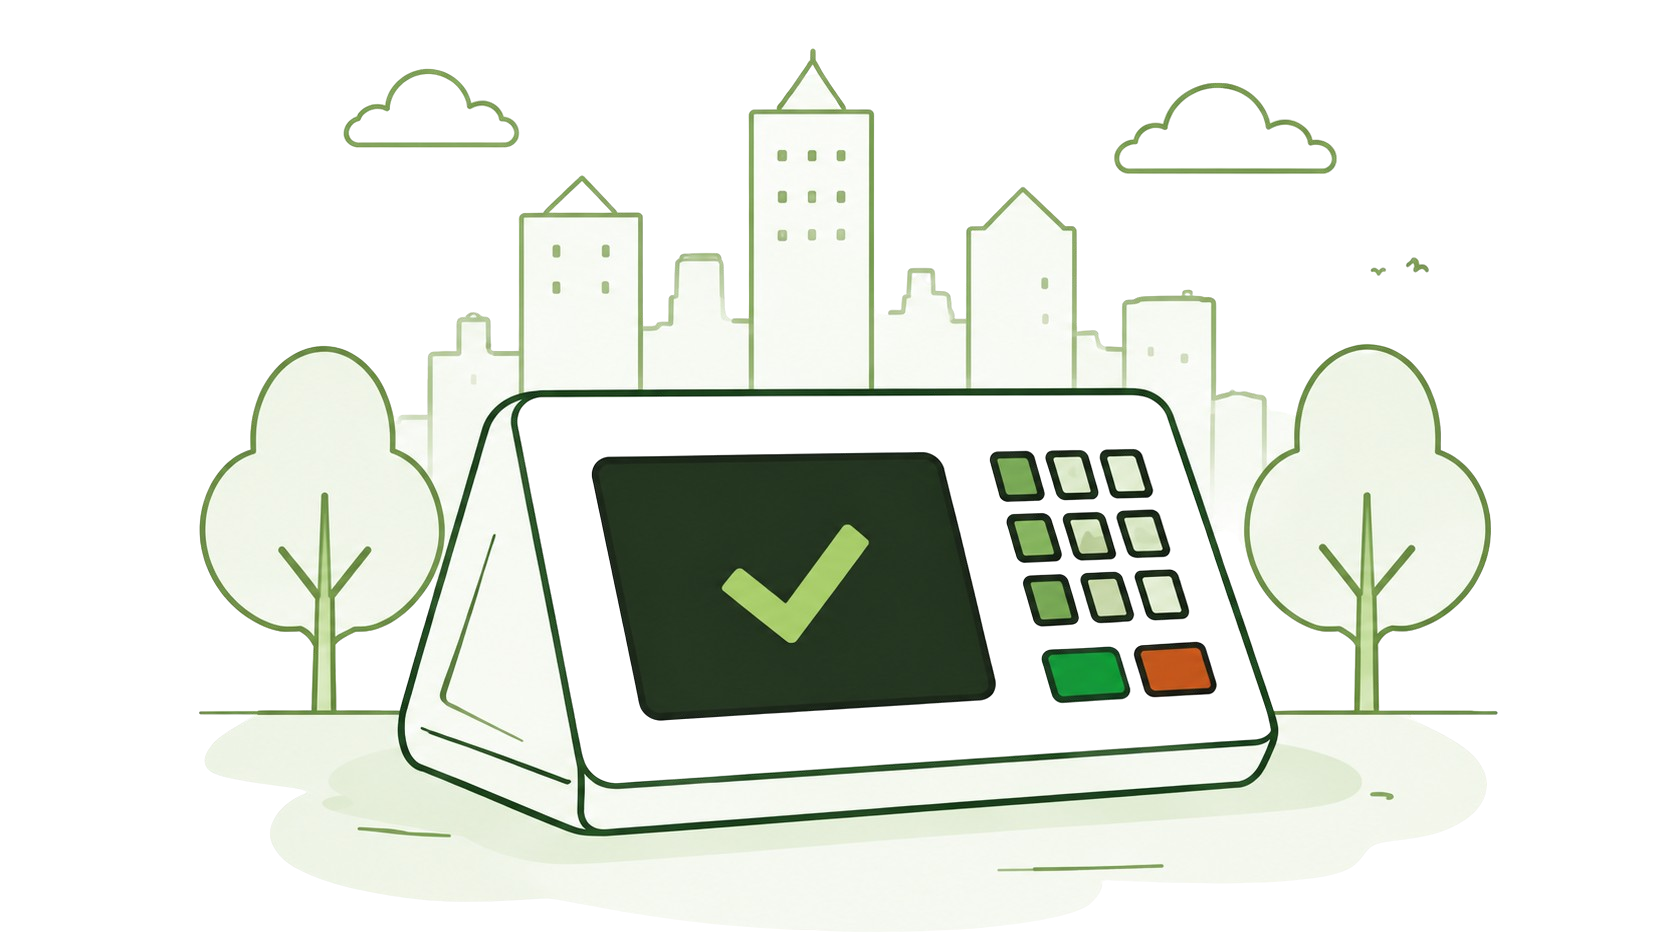
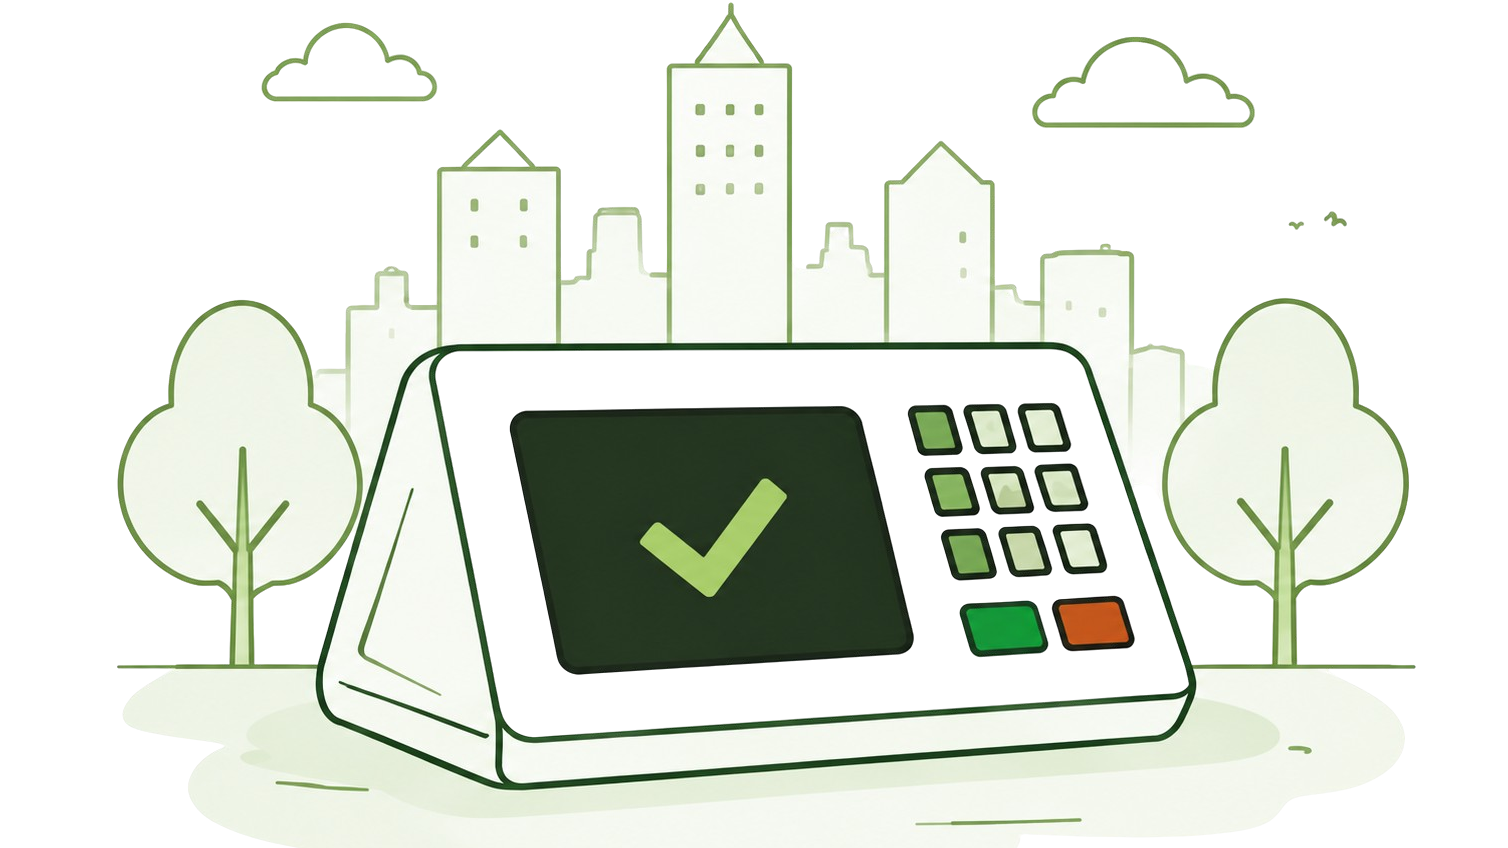
Ajustando a responsividade da tela de Login

diff --git a/src/features/auth/Login.css b/src/features/auth/Login.css
@@ -120,22 +120,23 @@
   align-items: center;
   justify-content: space-between;
   width: 100%;
-  padding-top: clamp(8px, 2dvh, 20px);
+  padding-top: clamp(4px, 1dvh, 12px);
+  padding-bottom: clamp(32px, 5dvh, 60px);
 }
 
 .login-logo {
-  width: clamp(180px, 40vw, 280px);
+  width: clamp(150px, 35vw, 280px);
   height: auto;
   flex-shrink: 0;
 }
 
 /* ==========================================================================
-   URNA — max-height em svh para nao estourar
+   URNA — max-height fluido (altura × largura via min)
    ========================================================================== */
 .login-urna {
   width: 100%;
   max-width: 600px;
-  max-height: 56svh;
+  max-height: min(50svh, 70vw);
   object-fit: contain;
   flex-shrink: 1;
 }
@@ -153,7 +154,7 @@
   flex-direction: column;
   align-items: center;
   gap: 2px;
-  margin: 0 0 clamp(12px, 2dvh, 24px);
+  margin: 0;
 }
 
 .login-slogan__main {
@@ -172,10 +173,10 @@
 .login-card {
   width: 100%;
   height: auto;
-  min-height: clamp(220px, 36dvh, 400px);
+  min-height: clamp(170px, 26dvh, 300px);
   background: var(--login-green);
   border-radius: 32px 32px 0 0;
-  padding: clamp(20px, 4dvh, 36px) 20px clamp(16px, 2.5dvh, 24px);
+  padding: clamp(14px, 2.5dvh, 24px) 20px clamp(16px, 2.5dvh, 24px);
   box-sizing: border-box;
   position: relative;
   display: flex;
@@ -397,9 +398,6 @@
   .login-logo {
     width: 140px;
   }
-  .login-urna {
-    max-height: 24svh;
-  }
   .login-slogan {
     font-size: 18px;
   }
@@ -415,9 +413,6 @@
 
 /* 2. ANDROID PEQUENO (360px - 389px) */
 @media (min-width: 360px) and (max-width: 389px) {
-  .login-urna {
-    max-height: 28svh;
-  }
   .login-slogan {
     font-size: 20px;
   }
@@ -428,9 +423,6 @@
 
 /* 3. IPHONES MODERNOS (390px - 411px) */
 @media (min-width: 390px) and (max-width: 411px) {
-  .login-urna {
-    max-height: 32svh;
-  }
   .login-slogan {
     font-size: 22px;
   }
@@ -438,9 +430,6 @@
 
 /* 4. ANDROID GRANDES (412px - 429px) */
 @media (min-width: 412px) and (max-width: 429px) {
-  .login-urna {
-    max-height: 34svh;
-  }
   .login-slogan {
     font-size: 24px;
   }
@@ -448,9 +437,6 @@
 
 /* 5. IPHONE PLUS / PRO MAX (430px - 479px) */
 @media (min-width: 430px) and (max-width: 479px) {
-  .login-urna {
-    max-height: 36svh;
-  }
   .login-slogan {
     font-size: 25px;
   }
@@ -458,9 +444,6 @@
 
 /* 6. FOLDABLES FECHADOS / LANDSCAPE PEQUENO (480px - 599px) */
 @media (min-width: 480px) and (max-width: 599px) {
-  .login-urna {
-    max-height: 30svh;
-  }
   .login-slogan {
     font-size: 24px;
   }
@@ -470,9 +453,6 @@
 @media (min-width: 600px) and (max-width: 767px) {
   .login-logo {
     width: 220px;
-  }
-  .login-urna {
-    max-height: 40svh;
   }
   .login-slogan {
     font-size: 28px;
@@ -486,9 +466,6 @@
 @media (min-width: 768px) and (max-width: 819px) {
   .login-logo {
     width: 260px;
-  }
-  .login-urna {
-    max-height: 44svh;
   }
   .login-slogan {
     font-size: 30px;
@@ -504,9 +481,6 @@
 
 /* 9. TABLETS MÉDIOS (820px - 833px) */
 @media (min-width: 820px) and (max-width: 833px) {
-  .login-urna {
-    max-height: 46svh;
-  }
   .login-slogan {
     font-size: 32px;
   }
@@ -519,9 +493,6 @@
   }
   .login-logo {
     width: 280px;
-  }
-  .login-urna {
-    max-height: 48svh;
   }
   .login-slogan {
     font-size: 34px;
@@ -545,10 +516,6 @@
     flex: 1;
     height: 100%;
     justify-content: space-around;
-  }
-
-  .login-urna {
-    max-height: 55vh;
   }
 
   .login-card {
@@ -581,10 +548,6 @@
     width: 260px;
   }
 
-  .login-urna {
-    max-height: 60vh;
-  }
-
   .login-slogan {
     font-size: 36px;
   }
@@ -612,7 +575,7 @@
   }
 
   .login-urna {
-    max-height: 24svh;
+    max-height: 32svh;
   }
 
   .login-slogan {
@@ -672,38 +635,38 @@
 }
 
 /* ==========================================================================
-   PORTRAIT SHORT (ex: 450x663) — reduz urna, card e botoes
+   PORTRAIT SHORT (< 680px altura, >= 430px largura)
    ========================================================================== */
-@media (max-height: 700px) and (orientation: portrait) {
+@media (max-height: 680px) and (orientation: portrait) and (min-width: 430px) {
+  .login-logo {
+    width: clamp(140px, 30vw, 200px);
+  }
+
   .login-urna {
-    max-height: 26svh;
+    max-height: 32svh;
   }
 
   .login-card {
-    min-height: clamp(180px, 28dvh, 280px);
-  }
-
-  .login-slogan {
-    margin-bottom: clamp(6px, 1dvh, 12px);
+    min-height: clamp(160px, 24dvh, 240px);
   }
 
   .login-card__content {
-    gap: clamp(6px, 1dvh, 10px);
+    gap: clamp(4px, 0.8dvh, 8px);
   }
 
   .login-google-btn,
   .login-how-it-works {
-    height: clamp(40px, 6dvh, 50px);
-    font-size: clamp(12px, 2.5vw, 16px);
+    height: clamp(36px, 5dvh, 44px);
+    font-size: clamp(11px, 2vw, 14px);
   }
 
   .login-how-it-works__icon {
-    width: clamp(18px, 3vw, 22px);
-    height: clamp(18px, 3vw, 22px);
+    width: clamp(16px, 2.5vw, 20px);
+    height: clamp(16px, 2.5vw, 20px);
   }
 
   .login-tagline {
-    font-size: clamp(10px, 1.4vw, 12px);
+    font-size: clamp(9px, 1.2vw, 11px);
   }
 }
 
